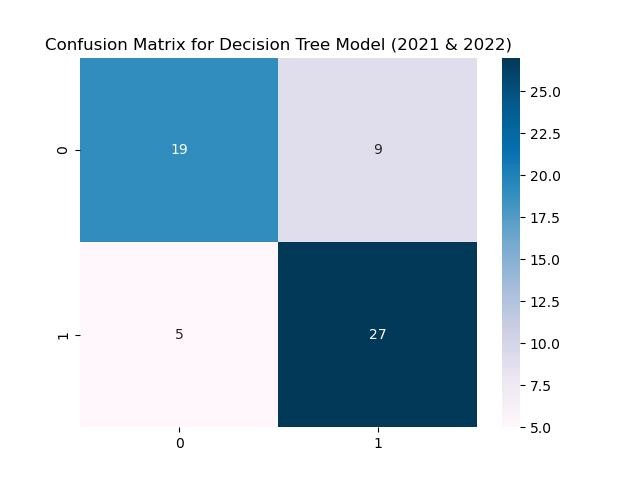
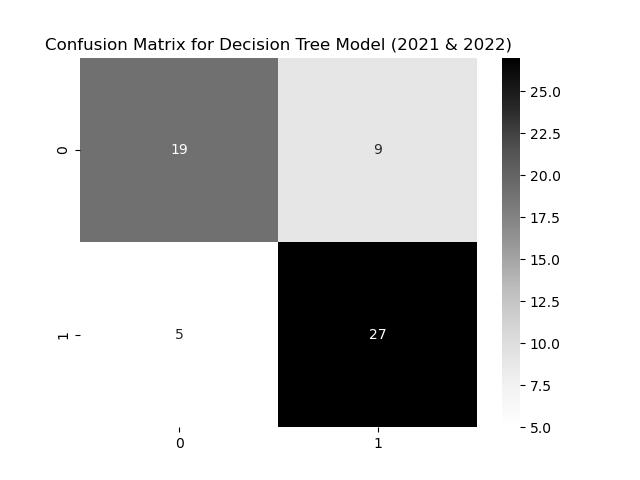
Changing color of DT_cm

Changed region(s): [[0.125, 0.0938, 0.75, 0.9062], [0.7812, 0.0938, 0.8125, 0.6562]]

diff --git a/confusion_matrix.py b/confusion_matrix.py
@@ -127,7 +127,7 @@ west_2022_DT_cm = confusion_matrix(west_2022_DT_KT, west_2022_DT_Pred)
 # Creating the final confusion matrix for the logistic regression model. 
 DT_cm = east_2021_DT_cm + west_2021_DT_cm + east_2022_DT_cm + west_2022_DT_cm
 # Creating a visualisation for the confusion matrix for the model. 
-sns.heatmap(DT_cm, annot=True, cmap="PuBu")
+sns.heatmap(DT_cm, annot=True, cmap="Greys")
 plt.title("Confusion Matrix for Decision Tree Model (2021 & 2022)")
 plt.savefig("./confusion_matrix/DT_cm.jpeg")
 plt.show()
